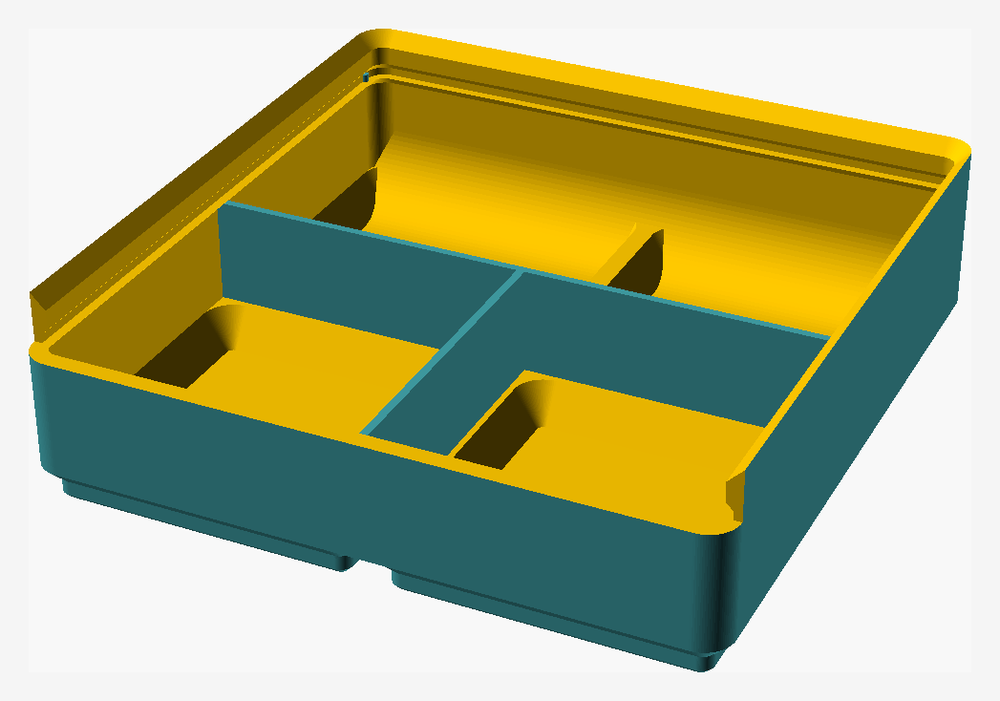
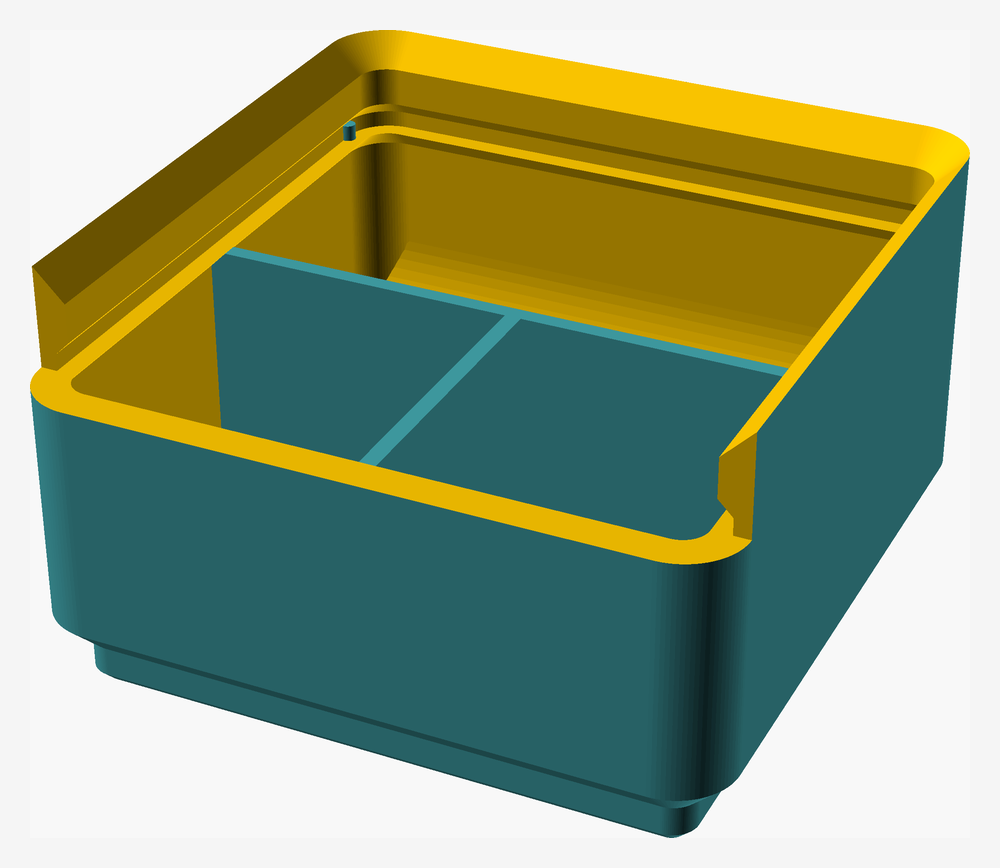
Sit every picture on a single unit, and render it without the stairs

diff --git a/README.ru.md b/README.ru.md
@@ -10,10 +10,10 @@
 `gridfinity.scad` через OpenSCAD, собранный в WebAssembly, так что STL получается ровно
 тот же, что и из командной строки.
 
-![Бин 2x2x3 с сеткой из двух рядов, крышка выдвинута наполовину](docs/img/lid-open.png)
+![Бин 1x1x3 с сеткой два на два, крышка выдвинута наполовину](docs/img/lid-open.png)
 
-*Бин 2x2x3 с `cells = 4`, крышка выдвинута наполовину —
-[открыть его в конфигураторе](https://alex499.github.io/gridfinity-bin/#units_x=2&units_y=2&units_z=3&cover=1&closure=auto&split_lid=0&scoop=1&wall_thickness=1&floor_thickness=1&card_length=15&scoop_flush=0&solid_foot=0&cells=4&view=bin).
+*Бин 1x1x3 с `cells = 4`, крышка выдвинута наполовину —
+[открыть его в конфигураторе](https://alex499.github.io/gridfinity-bin/#units_x=1&units_y=1&units_z=3&cover=1&closure=auto&split_lid=0&scoop=1&wall_thickness=1&floor_thickness=1&card_length=15&scoop_flush=0&solid_foot=0&cells=4&view=bin).
 Все картинки на этой странице отрендерены из этого же файла скриптом
 [docs/render-images.sh](docs/render-images.sh).*
 

diff --git a/README.md b/README.md
@@ -9,10 +9,10 @@ OpenSCAD, with no external libraries.
 install, no account. The page runs this same `gridfinity.scad` through OpenSCAD compiled to
 WebAssembly, so the STL it hands you is the one the command line would produce.
 
-![A 2x2x3 bin with a two-row cell grid, its lid slid halfway out](docs/img/lid-open.png)
+![A 1x1x3 bin with a two-by-two cell grid, its lid slid halfway out](docs/img/lid-open.png)
 
-*A 2x2x3 bin with `cells = 4`, its lid halfway out —
-[open this one in the configurator](https://alex499.github.io/gridfinity-bin/#units_x=2&units_y=2&units_z=3&cover=1&closure=auto&split_lid=0&scoop=1&wall_thickness=1&floor_thickness=1&card_length=15&scoop_flush=0&solid_foot=0&cells=4&view=bin).
+*A 1x1x3 bin with `cells = 4`, its lid halfway out —
+[open this one in the configurator](https://alex499.github.io/gridfinity-bin/#units_x=1&units_y=1&units_z=3&cover=1&closure=auto&split_lid=0&scoop=1&wall_thickness=1&floor_thickness=1&card_length=15&scoop_flush=0&solid_foot=0&cells=4&view=bin).
 Every picture on this page is rendered from this file by
 [docs/render-images.sh](docs/render-images.sh).*
 
